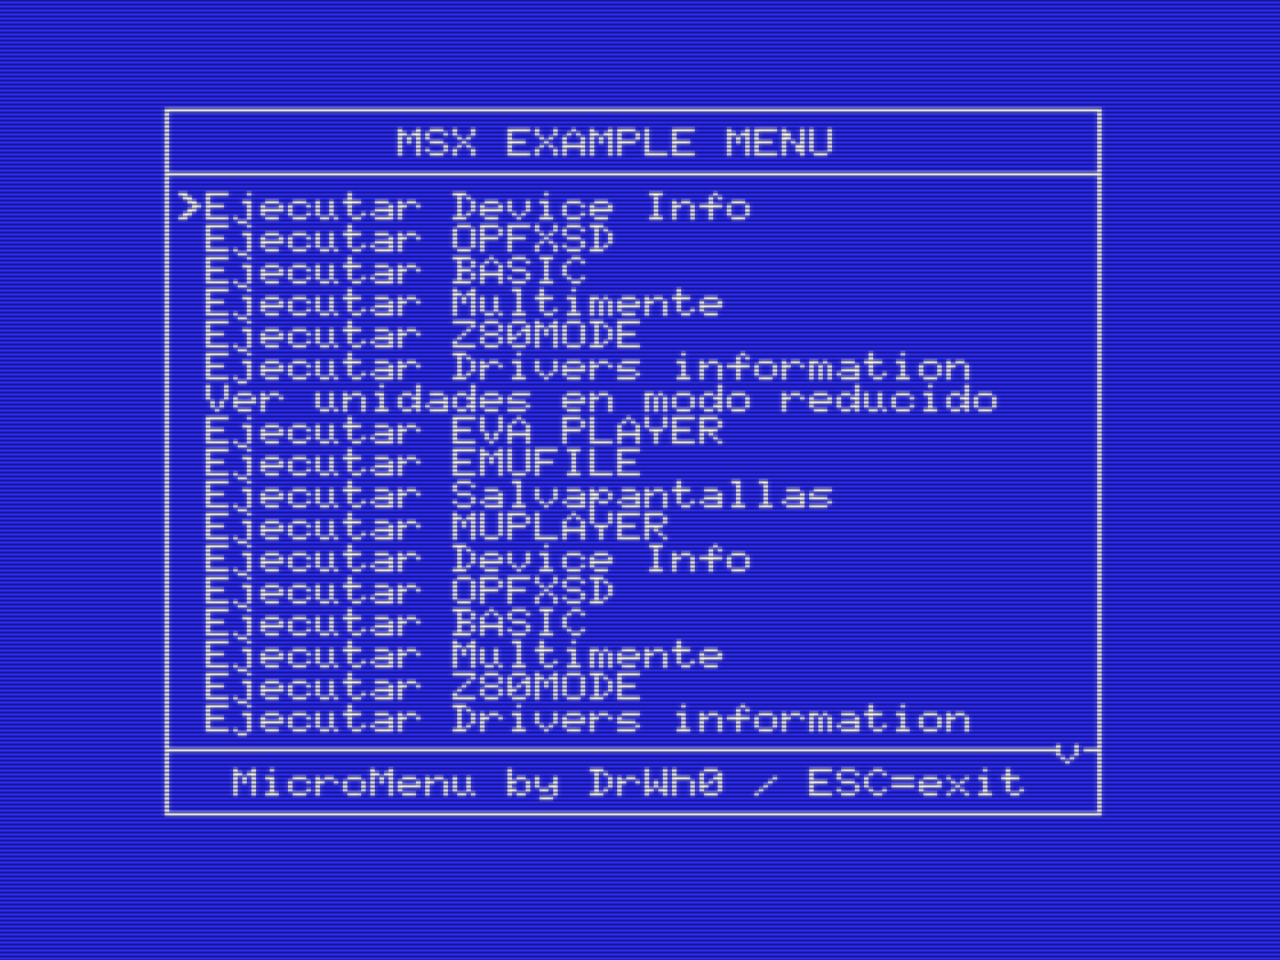
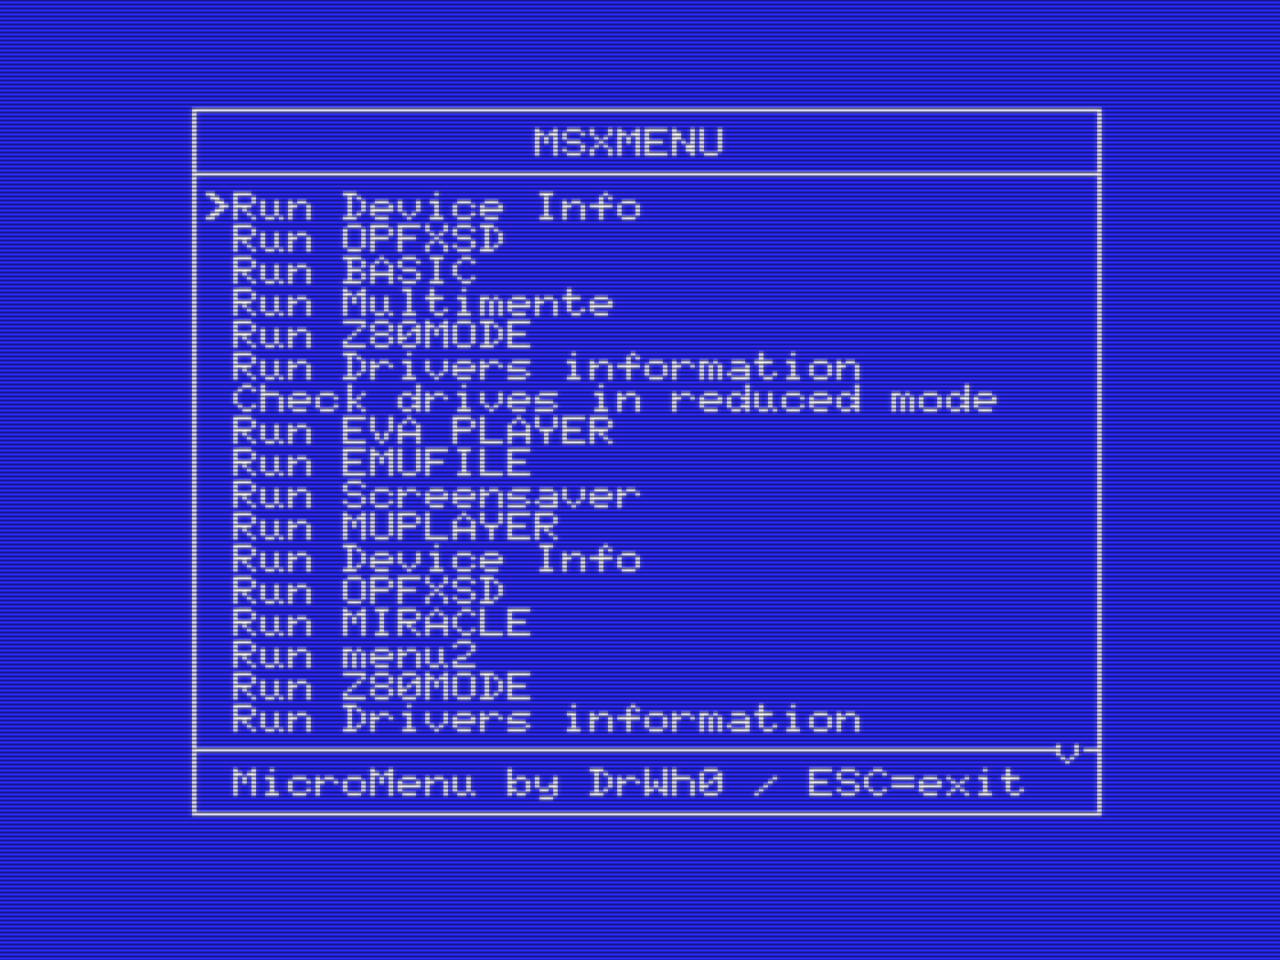
Add files via upload

Changed region(s): [[0.125, 0.0938, 0.7812, 0.875]]

diff --git a/README.md b/README.md
@@ -95,7 +95,7 @@ Keep `exec=` paths reasonably short.
 ---
 
 ## Credits:
-Program made by Carlos Romero (DrWh0 / Dalekamistoso) 2026/08/12
+Program made by Carlos Romero (DrWh0 / Dalekamistoso) 2026/08/13
 
 Check my github for more projects:
 www.github.com/Dalekamistoso
